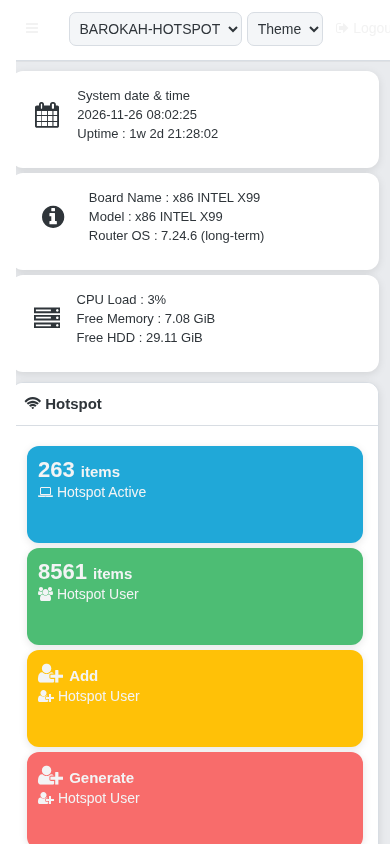
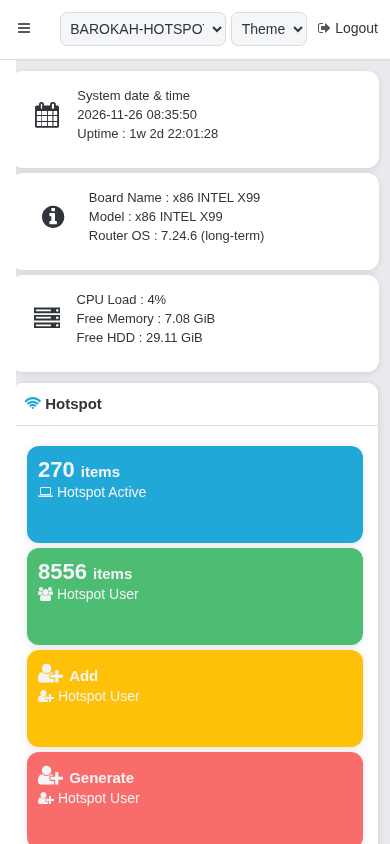
fix(ui): header contrast/layout and filter form navigation

diff --git a/css/modern.css b/css/modern.css
@@ -28,6 +28,14 @@ body {
   box-shadow: 0 1px 0 rgba(0, 0, 0, .04);
 }
 .navbar-left a, .navbar-right a { padding: 18px 12px; font-size: 14px; }
+.navbar a, .navbar a:hover, .navbar a:focus, #brand, #cpage, #logout, #openNav, #closeNav,
+.navbar .navbar-hover, .navbar i { color: var(--mm-text) !important; }
+#brand { font-weight: 700; letter-spacing: .4px; opacity: 1; }
+#cpage { color: var(--mm-muted) !important; font-weight: 600; }
+.navbar .navbar-hover i, .navbar-right i { color: var(--mm-text) !important; opacity: .82; }
+.navbar-right .ses, .navbar-right .dropd { color: var(--mm-text) !important; }
+.sidenav a i { color: var(--mm-muted); }
+.sidenav a:hover i, .sidenav .active i { color: var(--mm-primary); }
 .navbar-right .ses, .navbar-right .dropd {
   margin: 12px 5px 0 0;
   border-radius: 7px;
@@ -41,6 +49,7 @@ body {
 .sidenav {
   margin-top: 60px;
   width: 230px;
+  box-sizing: border-box;
   padding: 10px 8px 26px;
   border-right: 1px solid var(--mm-border);
   background: var(--mm-surface) !important;
@@ -61,7 +70,7 @@ body {
 .dropdown-container a { padding-left: 24px !important; }
 
 /* Content */
-#main { margin-top: 60px; transition: margin-left .2s ease; }
+#main { margin-top: 60px; margin-left: 230px; transition: margin-left .2s ease; }
 .main-container { padding: 18px; max-width: 1600px; margin: 0 auto; }
 .card {
   border: 1px solid var(--mm-border);
@@ -193,8 +202,9 @@ table .form-control { min-height: 34px; }
   .navbar { padding: 0 6px; overflow: hidden; }
   .navbar-left, .navbar-right { width: auto; }
   .navbar-right a { padding: 18px 6px; }
-  .navbar-right .ses, .navbar-right .dropd { max-width: 112px; }
-  #cpage { max-width: 110px; overflow: hidden; text-overflow: ellipsis; white-space: nowrap; }
+  .navbar-right .ses, .navbar-right .dropd { max-width: 166px; }
+  #cpage, #navbar a[title="Idle Timeout"] { display: none !important; }
+  .navbar-right .ses { max-width: 166px; }
   #brand span { font-size: 15px; }
   .main-container { padding: 6px; }
   .box h1 { font-size: 22px; }

diff --git a/js/app.js b/js/app.js
@@ -33,8 +33,17 @@
     }
   });
 
-  // Turn wide legacy tables into horizontally scrollable regions.
   document.addEventListener("DOMContentLoaded", function () {
+    document.querySelectorAll("form.mm-toolbar").forEach(function (form) {
+      form.addEventListener("submit", function () {
+        form.querySelectorAll("input[name], select[name]").forEach(function (field) {
+          if (field.type === "hidden") { return; }
+          if (field.value === "") { field.disabled = true; }
+        });
+      });
+    });
+
+    // Turn wide legacy tables into horizontally scrollable regions.
     document.querySelectorAll("table.table").forEach(function (table) {
       var parent = table.parentElement;
       if (!parent || parent.classList.contains("overflow") || parent.classList.contains("mm-table-wrap")) { return; }

diff --git a/src/Http/routes/index.routes.php b/src/Http/routes/index.routes.php
@@ -38,7 +38,7 @@
   }
 
 // bad request
-  elseif (substr($url, -1) == "=") {
+  elseif ($session === '' && substr($url, -1) == "=") {
     echo "<b class='cl-w'><i class='fa fa-circle-o-notch fa-spin' style='font-size:24px'></i> Bad request! redirect to Home......</b>";
 
     echo "<script>window.location='./'</script>";
